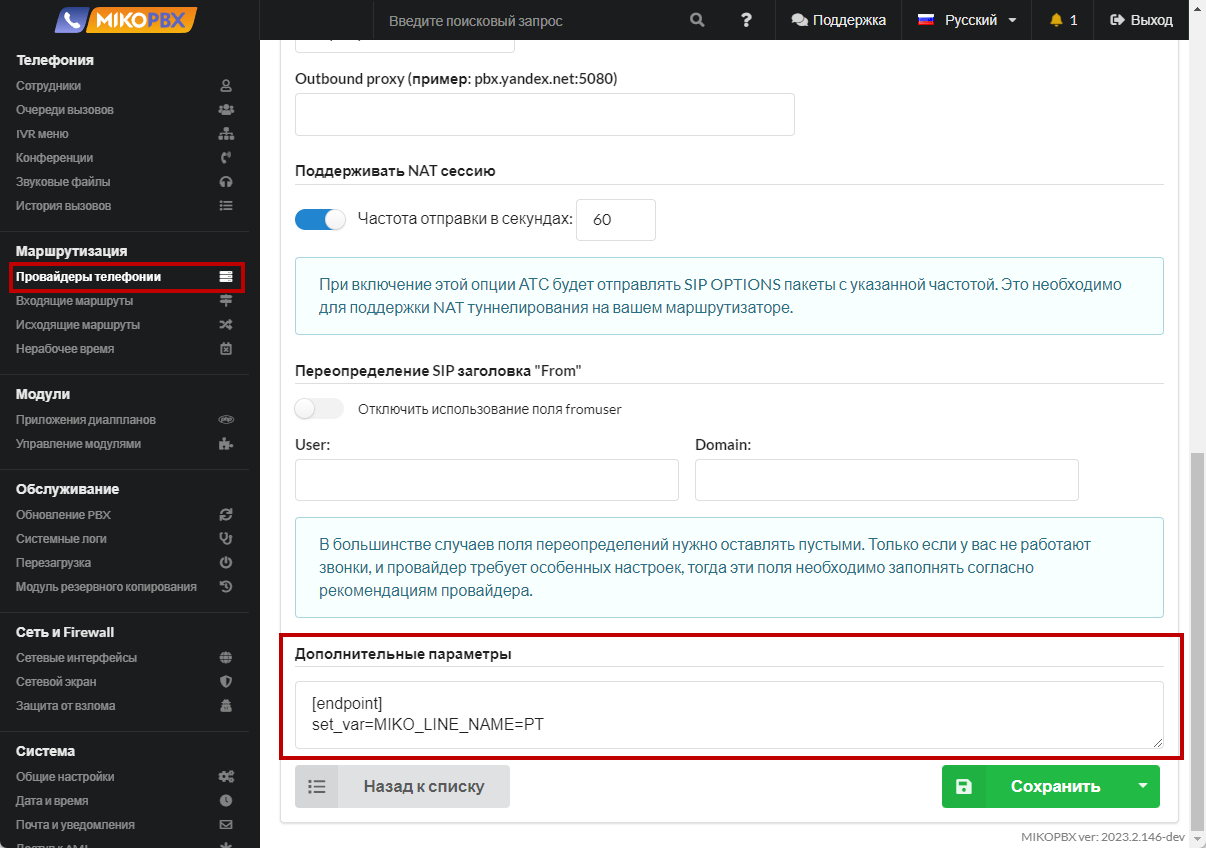
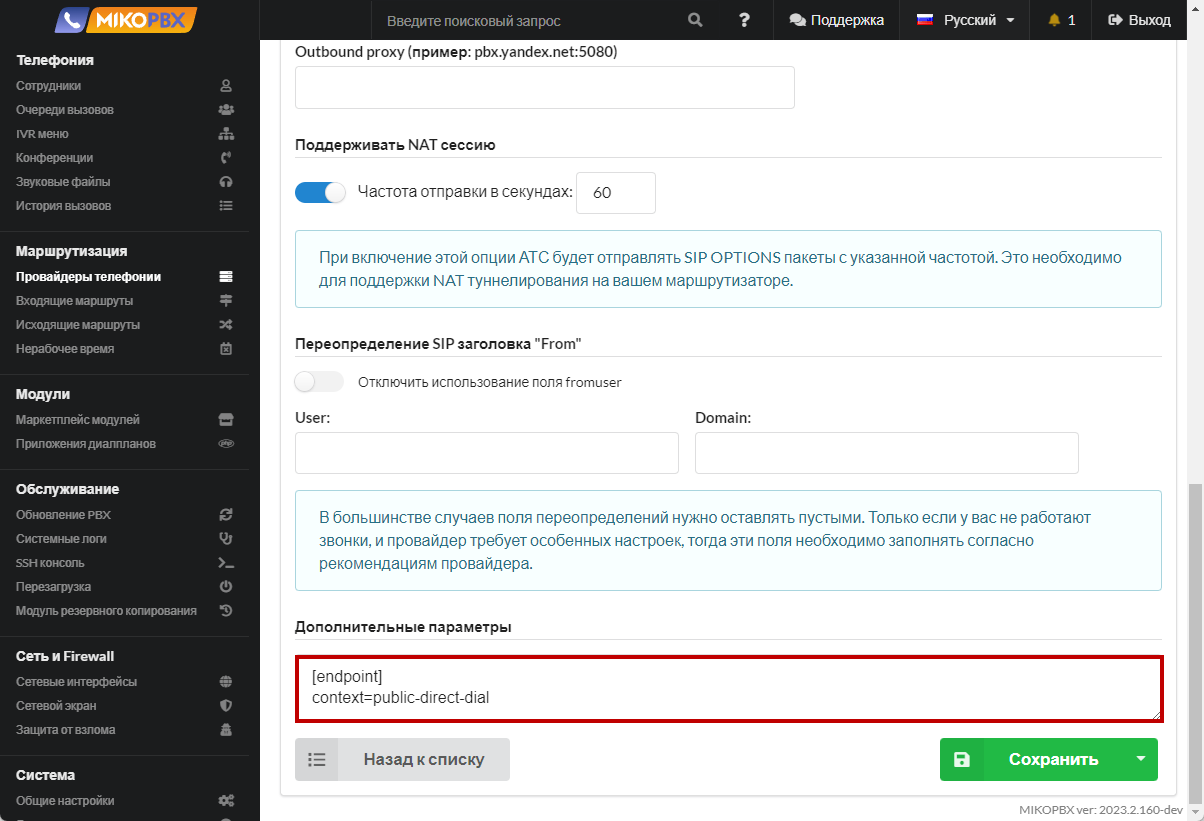
GITBOOK-376: change request with no subject merged in GitBook

diff --git a/faq/cases/registraciya-neskolkikh-uchetnykh-zapisei-ot-odnogo-provaidera.md b/faq/cases/registraciya-neskolkikh-uchetnykh-zapisei-ot-odnogo-provaidera.md
@@ -1,2 +1,34 @@
 # Регистрация нескольких учетных записей от одного провайдера
 
+{% hint style="success" %}
+Инструкция по подключению учетной записи провайдера доступна по [ссылке](../../manual/routing/providers.md).
+{% endhint %}
+
+Многие операторы связи не могут предложить несколько SIP-номеров в одном транке (в качестве одной учетной записи провайдера) и выдают для каждого номера свои регистрационные данные. Например, используя провайдера Zadarma, для подключения номера телефона +7(495)-229-30-42 следует использовать логин 847706, пароль XXXXXX, а при подключении номера телефона +7 (499) 638-25-84 следует использовать логин 847900, пароль YYYYYY. При этом хост будет для двух учетных записей одинаковым: <mark style="color:blue;">sip.zadarma.com.</mark>\
+\
+_Задача:_ необходимо для каждого номера задать определенную входящую маршрутизацию, например при звонке на номер +7(495)-229-30-42 вызов должен направляться на отдел продаж (очередь вызовов), а при звонке на номер +7 (499) 638-25-84 вызов должен направляться на IVR-меню.\
+\
+_Потенциальная проблема:_ проблема заключается в том, что **все входящие звонки** пойдут через **первого** провайдера Zadarma, который определен в учетных записях MikoPBX. Вызовы через второго провайдера MikoPBX никогда не пройдут.
+
+### Решение &#x20;
+
+1. В разделе **Маршрутизация** → **Провайдеры телефонии** создайте две учетные записи провайдера от одного поставщика услуг связи. В нашем примере это Zadarma. Укажите верный логин, пароль и хост.
+
+<figure><img src="../../.gitbook/assets/provider.png" alt=""><figcaption><p>Настройки провайдера </p></figcaption></figure>
+
+2. В дополнительных параметрах укажите:
+
+```php
+[endpoint]
+context=public-direct-dial
+```
+
+<figure><img src="../../.gitbook/assets/extraParameters.png" alt=""><figcaption><p>Дополнительные настройки провайдера</p></figcaption></figure>
+
+3. В разделе **Маршрутизация** → **Входящие маршруты** задайте правило входящих звонков для каждого провайдера. В поле **Дополнительный номер** вставьте логин от учетной записи провайдера. В поле **Провайдер** выберите **Любой**.
+
+<figure><img src="../../.gitbook/assets/newRule.png" alt=""><figcaption><p>Новое правило обработки входящих вызовов</p></figcaption></figure>
+
+{% hint style="success" %}
+Инструкции по настройке входящей маршрутизации доступны по [ссылке](../vkhodyashaya-marshrutizaciya/).
+{% endhint %}

diff --git a/faq/vkhodyashaya-marshrutizaciya/vyvod-informacii-o-did-nomere.md b/faq/vkhodyashaya-marshrutizaciya/vyvod-informacii-o-did-nomere.md
@@ -53,7 +53,7 @@ set_var=MIKO_LINE_NAME=PT
 
 В нашем примере наименование линии будет идентично наименованию провайдера - **PT**.
 
-<figure><img src="../../.gitbook/assets/extraParameters.png" alt=""><figcaption><p>Дополнительные параметры для провайдера </p></figcaption></figure>
+<figure><img src="../../.gitbook/assets/extraParameters (1).png" alt=""><figcaption><p>Дополнительные параметры для провайдера </p></figcaption></figure>
 
 2. Перейдите в раздел **Система** -> **Кастомизация системных файлов**
 
